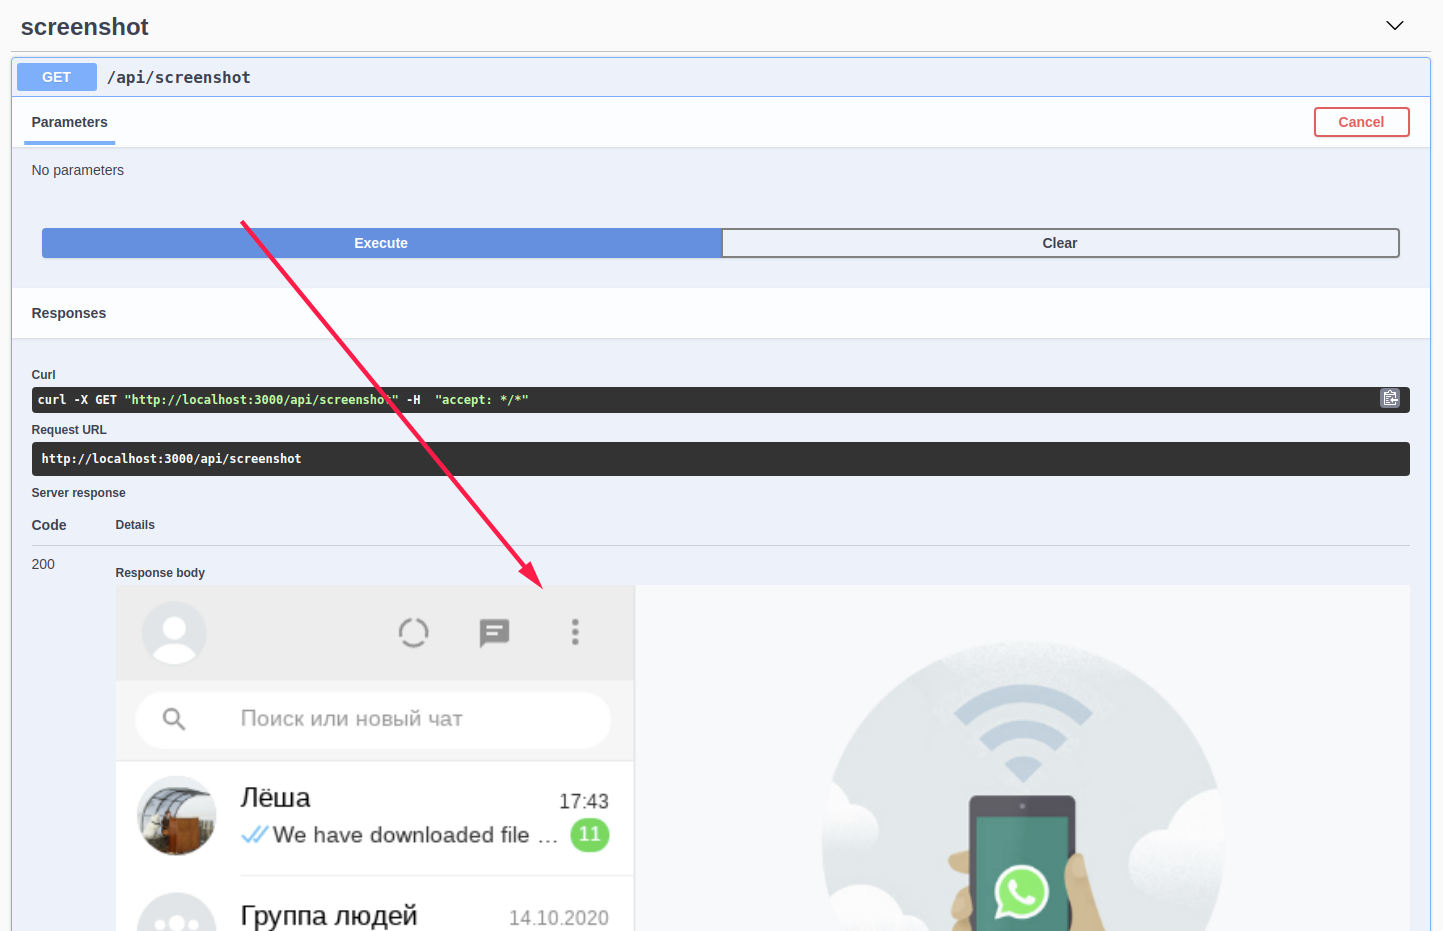
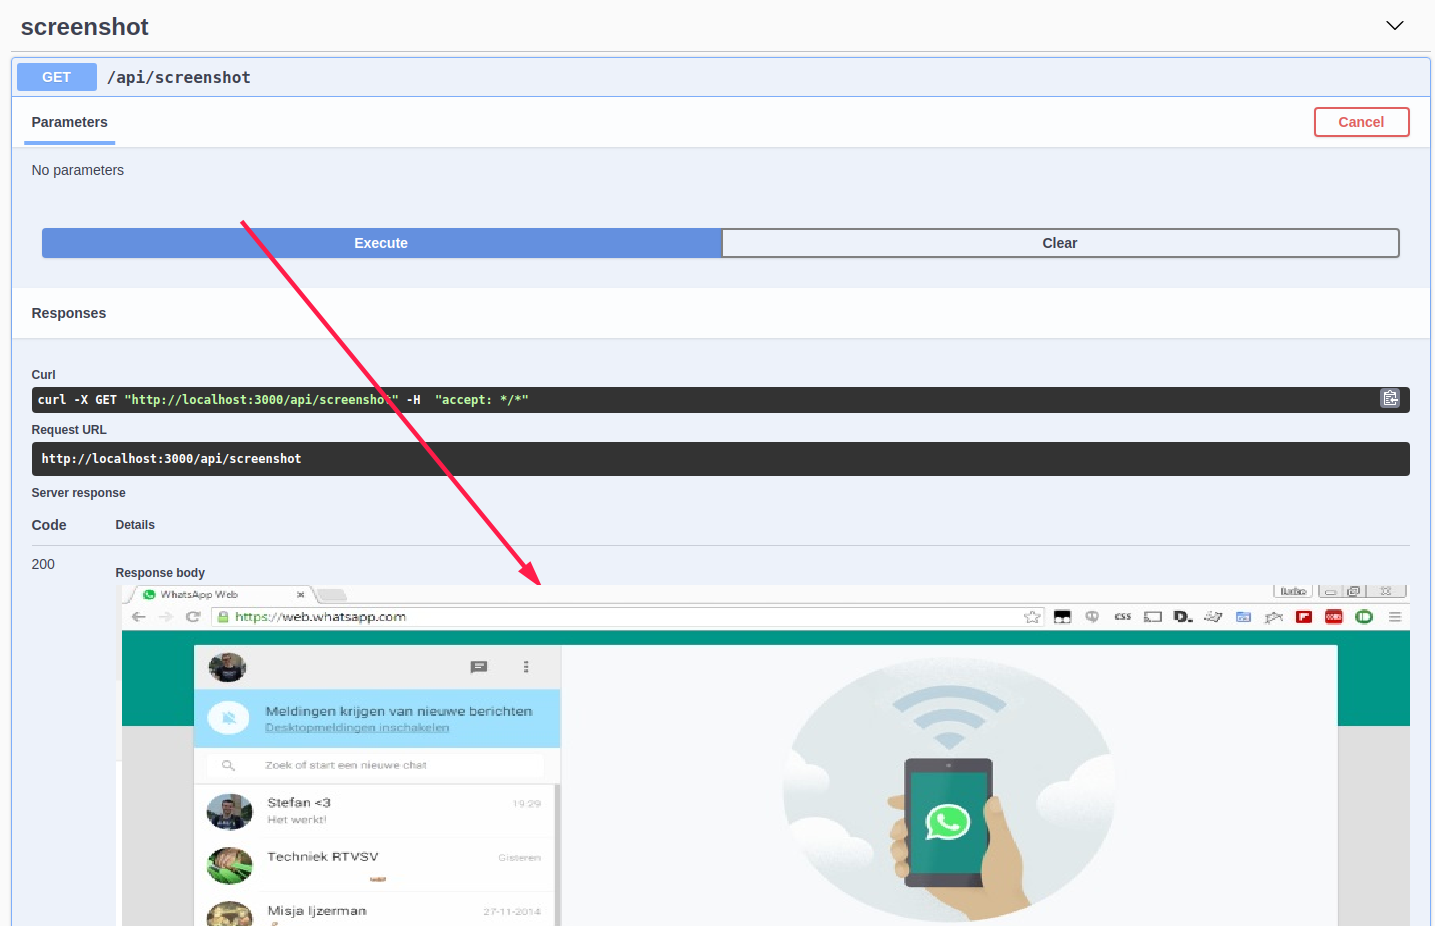
Some fixes

diff --git a/docs/site/content/en/docs/overview/quick-start/index.md b/docs/site/content/en/docs/overview/quick-start/index.md
@@ -31,19 +31,15 @@ Let's go over steps that allow you to send your first text message via WhatsApp 
 
 ### 1. Download image
 
-Assuming you have installed [Docker](https://docs.docker.com/get-docker/), let's download the image
+Assuming you have installed [Docker](https://docs.docker.com/get-docker/), let's download the image.
 
-#### Core
-
-For ![](/images/versions/core.png) version the command is
+![](/images/versions/core.png) For Core version the command is
 
 ```bash
 docker pull devlikeapro/whatsapp-http-api
 ```
 
-#### Plus
-
-For ![](/images/versions/core.png) version, we use login to get the image before:
+![](/images/versions/plus.png) For Plus version, we use login to get the image before:
 
 ```bash
 docker login -u devlikeapro -p {PASSWORD}
@@ -67,7 +63,7 @@ docker run -it --rm -v `pwd`/tokens:/app/tokens -p 127.0.0.1:3000:3000/tcp --nam
 Open the link in your browser [http://localhost:3000/](http://localhost:3000/) and you'll see API documentation
 (Swagger).
 
-{{< alert icon="👉" text="We don't recommend expose the API in the internet without authorization!" />}}
+{{< alert icon="👉" text="We don't recommend expose the API in the internet without authentication!" />}}
 
 ![](swagger.png)
 

diff --git a/docs/site/content/en/docs/overview/introduction.md b/docs/site/content/en/docs/overview/introduction.md
@@ -17,7 +17,7 @@ toc: true
 ## Features
 We provide two versions:
 - Core ![](/images/versions/core.png) - a basic version that meet almost 80% people's needs. 100% free and [open source](https://github.com/devlikeapro/whatsapp-http-api).
-- Plus ![](/images/versions/plus.png) - a version with advanced messages, security, and reliability features. One payment for month updates, read more about [Plus Version →]({{< relref "plus-version" >}})
+- Plus ![](/images/versions/plus.png) - a version with advanced messages, security, and reliability features. One-time payment, no license expiration, quick updates, read more about [Plus Version →]({{< relref "plus-version" >}})
 
 Here's the list of features that both versions support:
 

diff --git a/docs/site/content/en/docs/how-to/plus-version/index.md b/docs/site/content/en/docs/how-to/plus-version/index.md
@@ -6,5 +6,5 @@ date: 2020-10-06T08:48:45+00:00
 lastmod: 2020-10-06T08:48:45+00:00
 draft: false
 images: []
-weight: 400
+weight: 900
 ---
